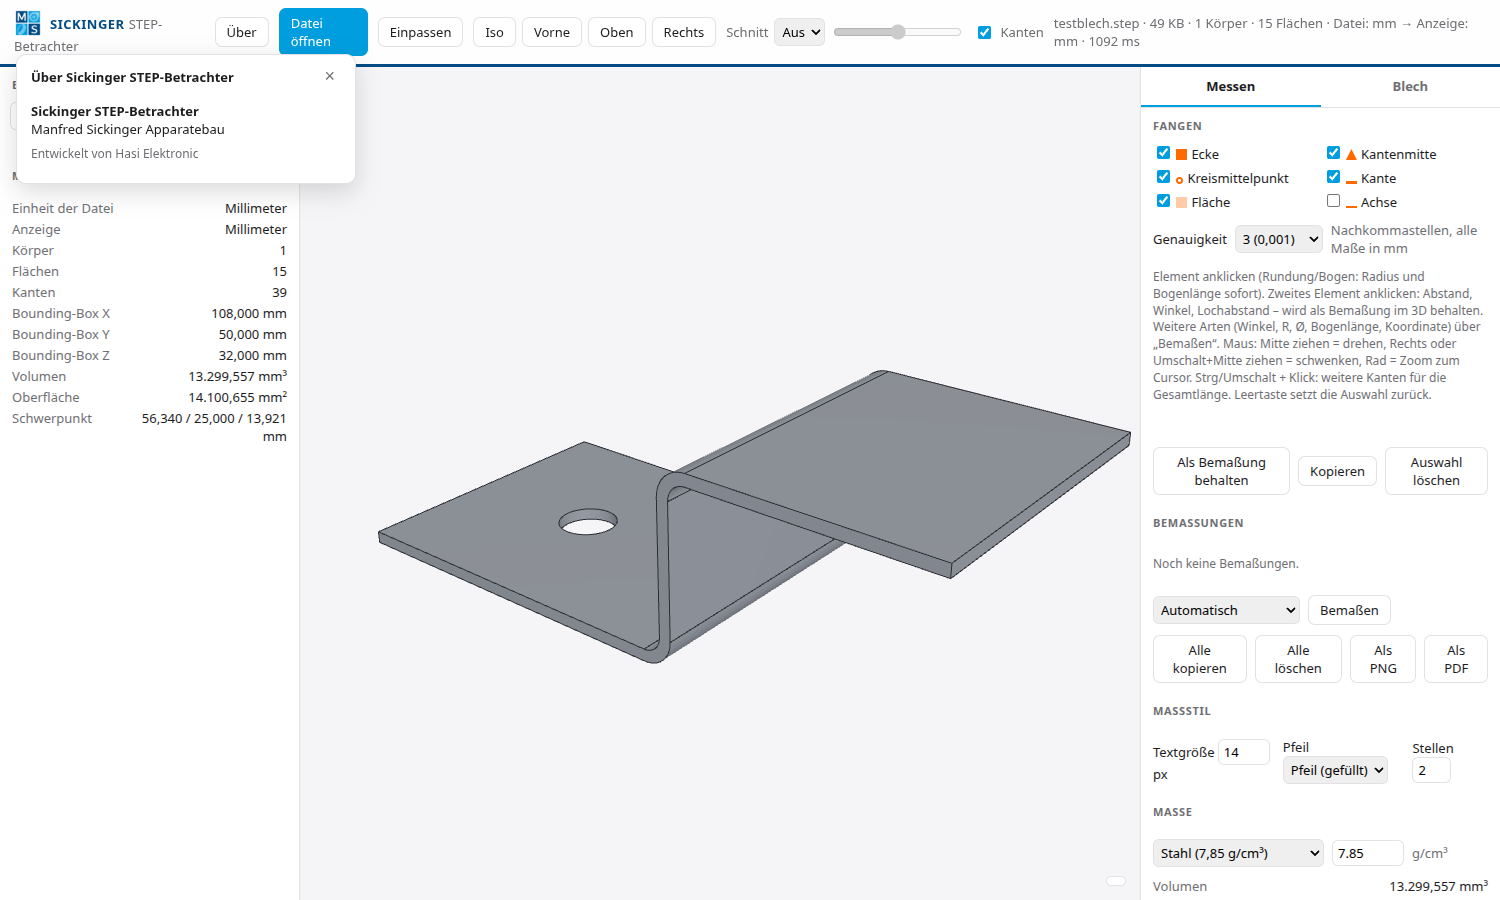
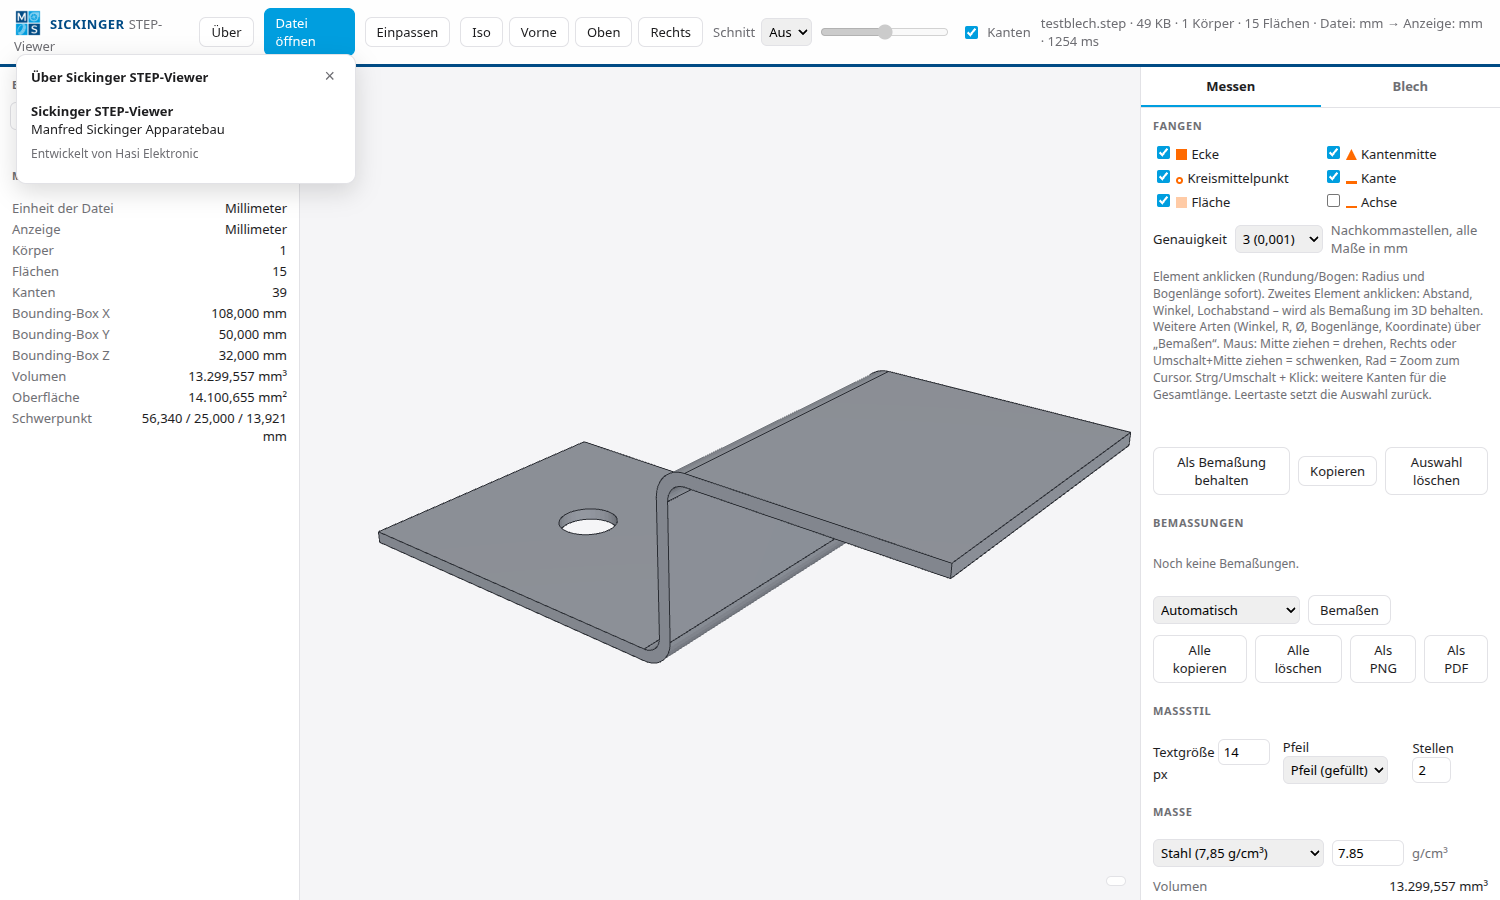
Sickinger-Produktname: STEP-Viewer
Die Marke heißt Sickinger STEP-Viewer, die Kennung de.sickinger.stepviewer. Hasi STEP-Betrachter bleibt unverändert.

diff --git a/vite.config.js b/vite.config.js
@@ -9,19 +9,19 @@ function markeHtml() {
       if (marke !== 'sickinger') return html;
       return html
         .replace('<html lang="de">', '<html lang="de" data-marke="sickinger">')
-        .replace('<title>Hasi STEP-Betrachter</title>', '<title>Sickinger STEP-Betrachter</title>')
+        .replace('<title>Hasi STEP-Betrachter</title>', '<title>Sickinger STEP-Viewer</title>')
         .replace('<link rel="icon" href="data:,">', '<link rel="icon" href="./marken/sickinger.png">')
         .replace(
           '<div class="brand">HASI <span>STEP-Betrachter</span></div>',
-          '<div class="brand"><img class="logo" src="./marken/sickinger.png" alt="">SICKINGER <span>STEP-Betrachter</span></div><button class="btn" id="ueber" type="button" title="Über diese Anwendung">Über</button>',
+          '<div class="brand"><img class="logo" src="./marken/sickinger.png" alt="">SICKINGER <span>STEP-Viewer</span></div><button class="btn" id="ueber" type="button" title="Über diese Anwendung">Über</button>',
         )
         .replace(
           '<div id="drop">STEP-Datei hierher ziehen</div>',
-          '<div id="drop"><img class="logo" src="./marken/sickinger.png" alt=""><span>STEP-Datei hierher ziehen</span></div>',
+          '<div id="drop"><img class="logo" src="./marken/sickinger.png" alt=""><b>Sickinger STEP-Viewer</b><span>STEP-Datei hierher ziehen</span></div>',
         )
         .replace(
           '</body>',
-          '<div id="ueberDlg" hidden><div class="dhead"><span>Über Sickinger STEP-Betrachter</span><button id="ueberClose" type="button" title="Schließen">×</button></div><p><b>Sickinger STEP-Betrachter</b><br>Manfred Sickinger Apparatebau</p><p class="hint">Entwickelt von Hasi Elektronic</p></div></body>',
+          '<div id="ueberDlg" hidden><div class="dhead"><span>Über Sickinger STEP-Viewer</span><button id="ueberClose" type="button" title="Schließen">×</button></div><p><b>Sickinger STEP-Viewer</b><br>Manfred Sickinger Apparatebau</p><p class="hint">Entwickelt von Hasi Elektronic</p></div></body>',
         );
     },
   };

diff --git a/src/marke.js b/src/marke.js
@@ -13,7 +13,7 @@ const ALLE = {
   },
   sickinger: {
     id: 'sickinger',
-    produkt: 'Sickinger STEP-Betrachter',
+    produkt: 'Sickinger STEP-Viewer',
     publisher: 'Manfred Sickinger Apparatebau',
     akzent: '#009EDF',
     akzentRgb: [0, 158, 223],

diff --git a/README.md b/README.md
@@ -23,7 +23,7 @@ Dieselbe App, zweite Marke für Manfred Sickinger Apparatebau. Ohne Variable ble
     MARKE=sickinger npm run build
     MARKE=sickinger npm run tauri build -- --config src-tauri/tauri.sickinger.conf.json
 
-Produktname „Sickinger STEP-Betrachter“, Kennung `de.sickinger.stepbetrachter`, Herausgeber „Manfred Sickinger Apparatebau“. Farben aus dem Logo: Dunkelblau `#004B85`, Hellblau `#009EDF`. Im Über-Dialog steht zusätzlich „Entwickelt von Hasi Elektronic“.
+Produktname „Sickinger STEP-Viewer“, Kennung `de.sickinger.stepviewer`, Herausgeber „Manfred Sickinger Apparatebau“. Farben aus dem Logo: Dunkelblau `#004B85`, Hellblau `#009EDF`. Im Über-Dialog steht zusätzlich „Entwickelt von Hasi Elektronic“.
 Voraussetzung: Repository auf GitHub (noch nicht angelegt). Ohne Apple-Developer-ID ist die .dmg unsigniert/nicht notarisiert -> Gatekeeper-Warnung (Rechtsklick > Öffnen). Ohne Windows-Codesigning-Zertifikat -> SmartScreen-Hinweis.
 
 ## Testdatei
